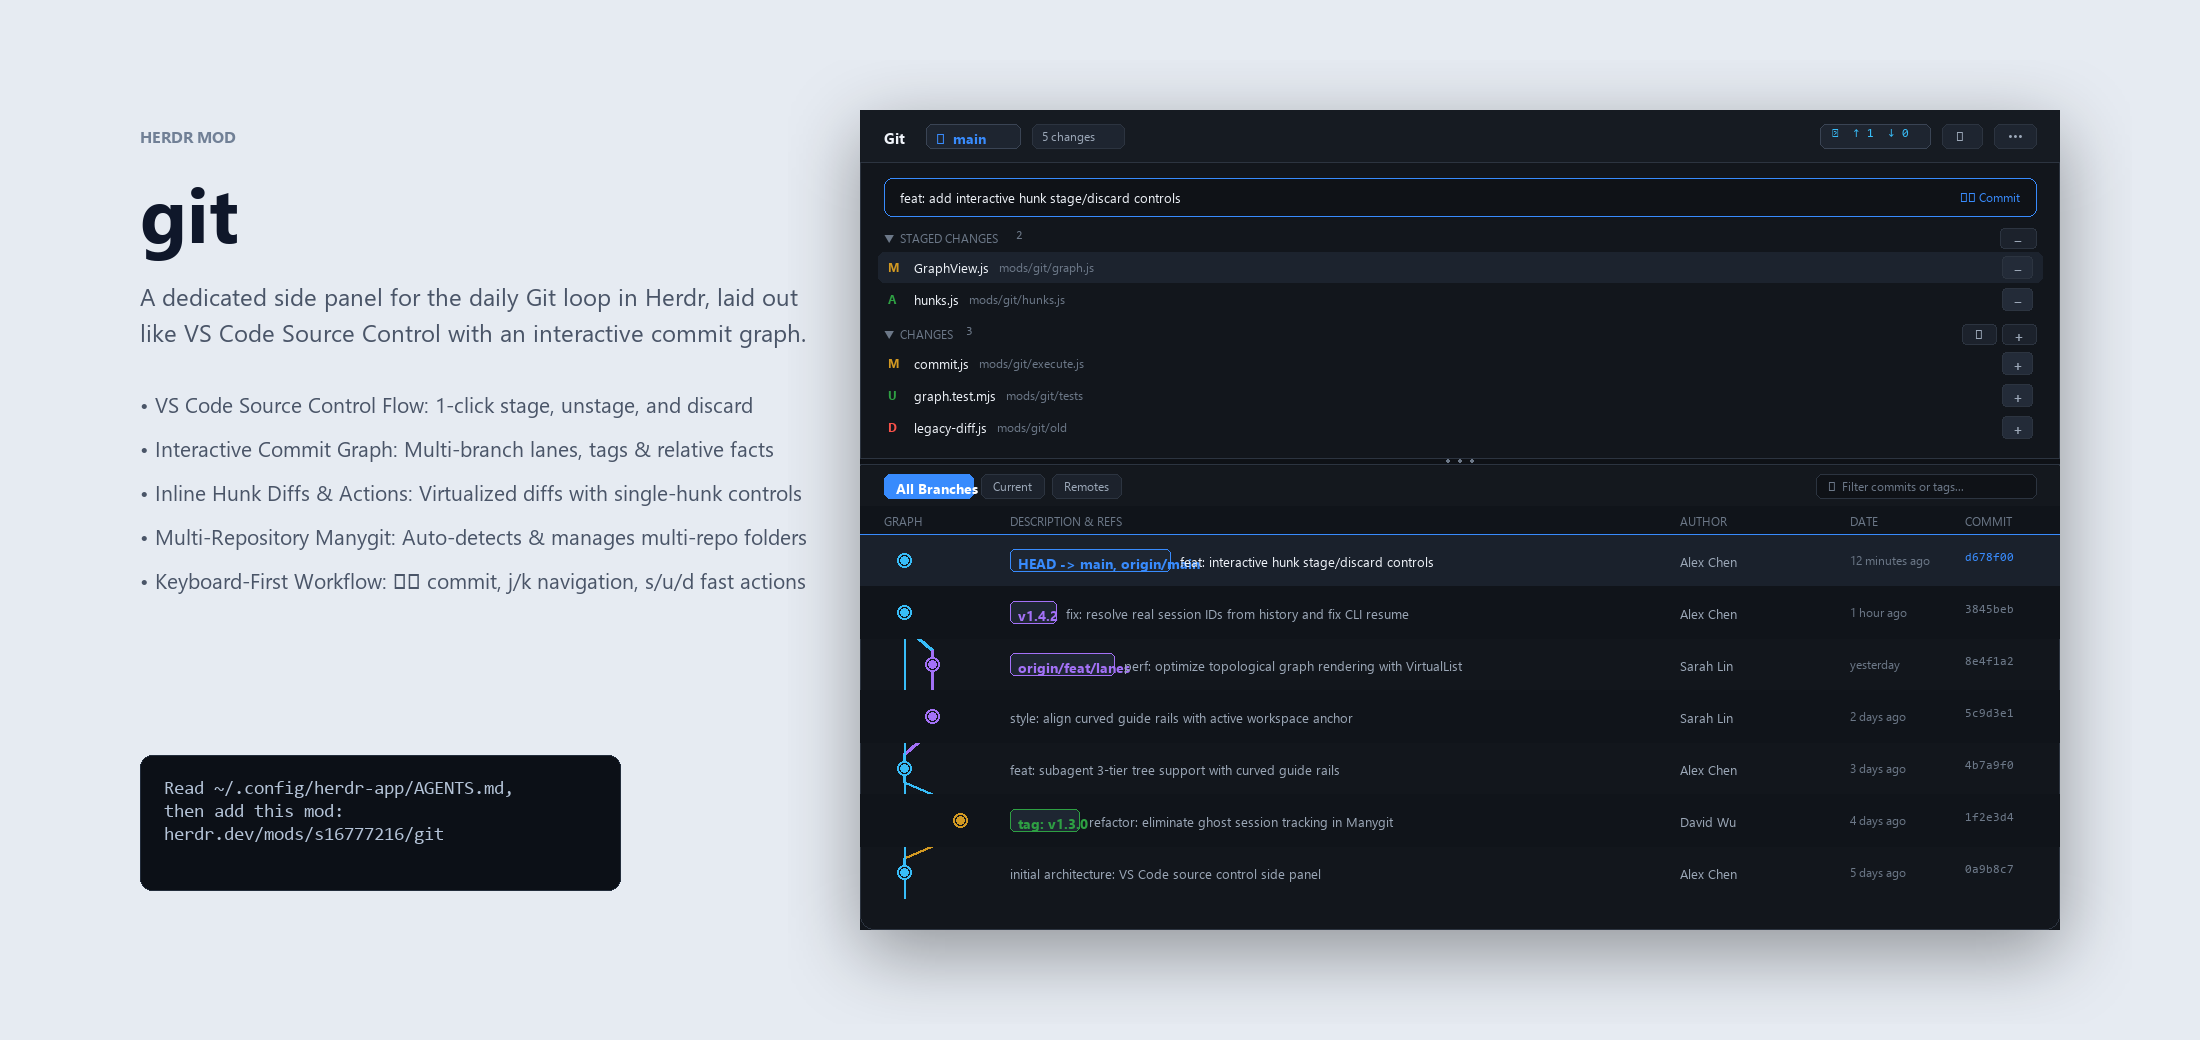
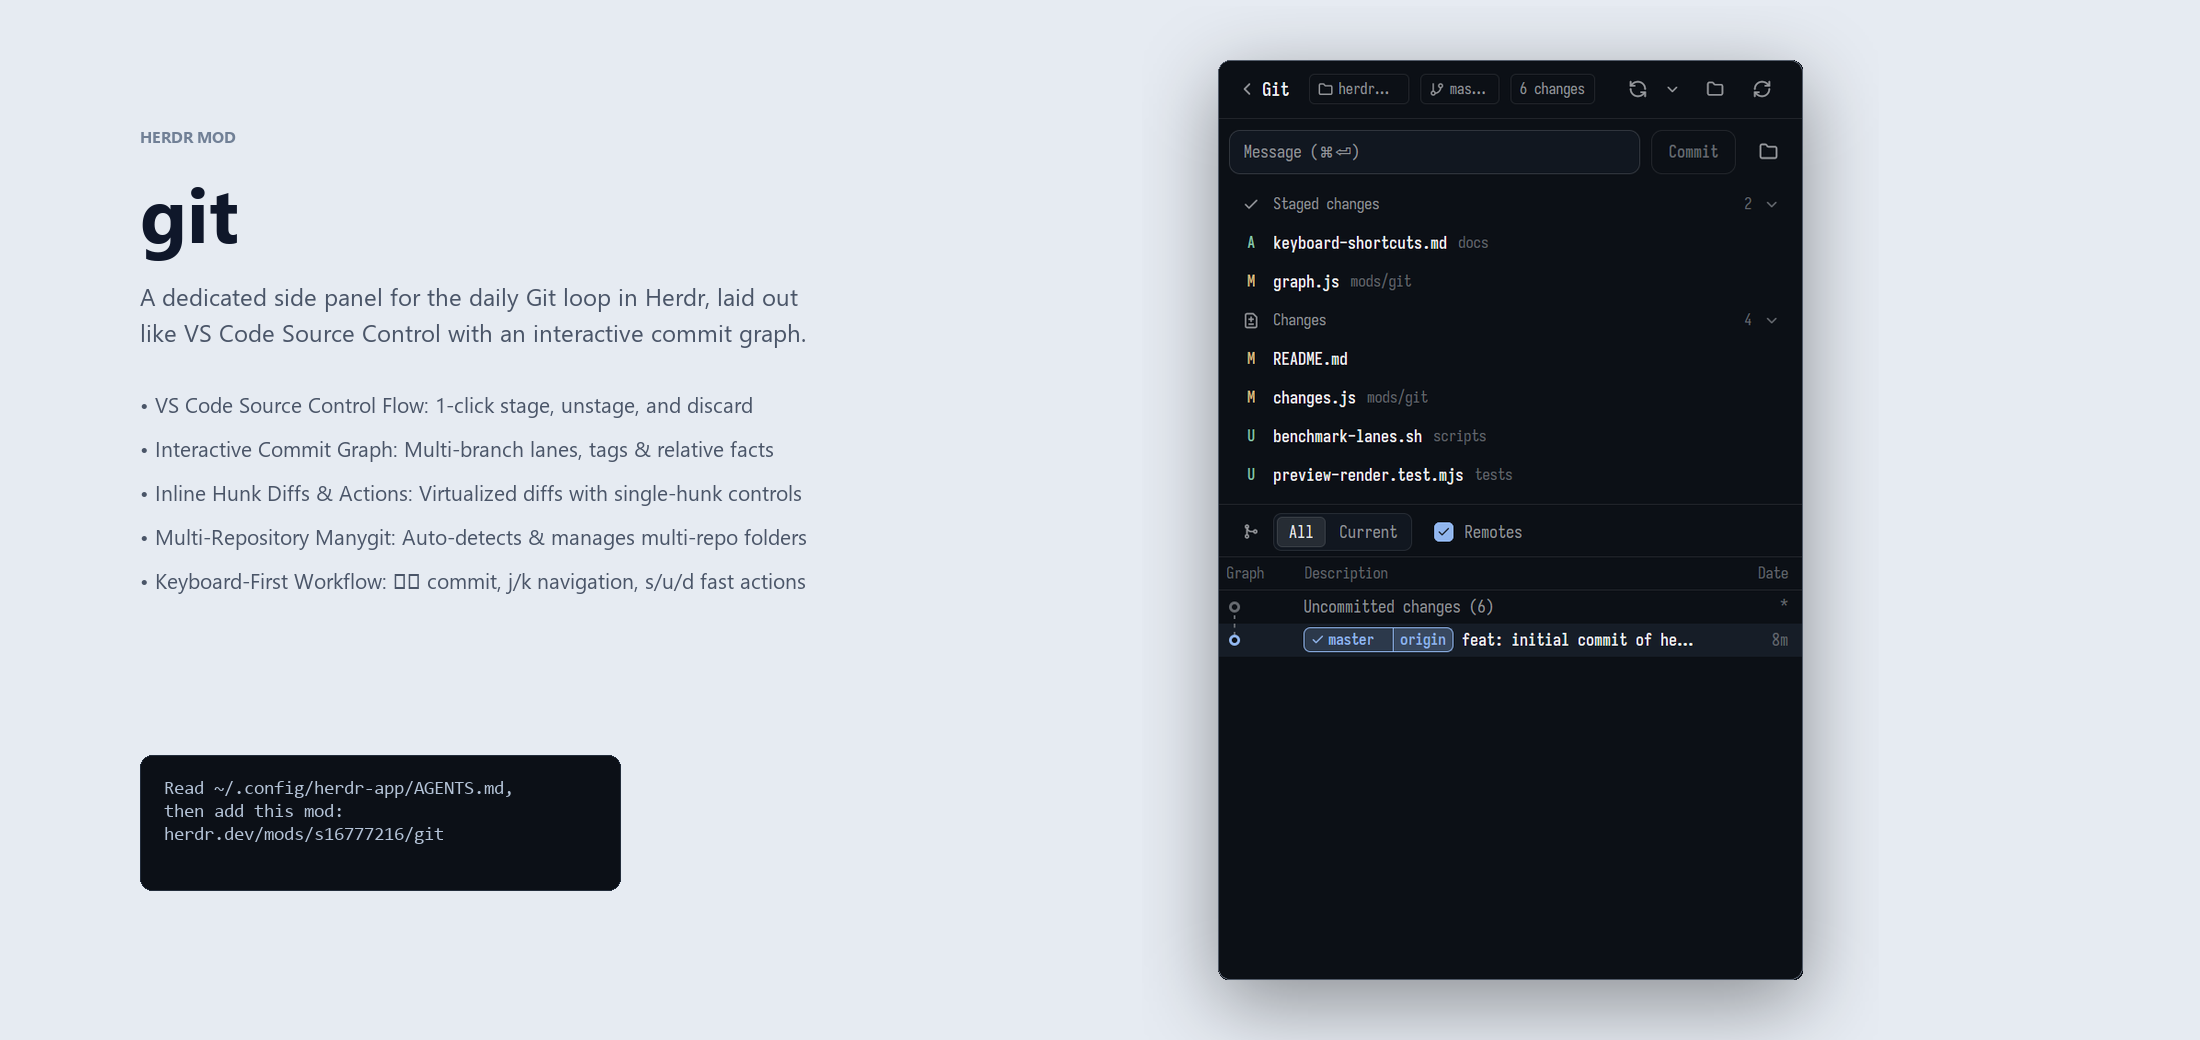
docs: update preview.png with clean Herdr Git panel screenshot and add docs

Changed region(s): [[0.3709, 0.0308, 0.9582, 1.0]]

diff --git a/mods/git/graph.js b/mods/git/graph.js
@@ -1,6 +1,7 @@
 // The graph itself: Git Graph's table (graph, description, date, author,
 // commit) for the focused pane's repository, or `props.folder` when opened as
 // a pane. Labels take double-clicks (checkout) and right-clicks (menus).
+// Optimized: virtualized branch lanes with topological rank projection.
 import { div, svg, PathBuilder } from "gpui-kit";
 import { v_flex, h_flex, Scrollbar, v_virtual_list, VirtualListScrollHandle } from "gpui-base";
 import { spaces, panes, focused, watchFolder, readTextFile, theme, settings, props, shared, setShared, openOverlay, home, notify, knownAgents, updates, nextCommand } from "herdr";

diff --git a/mods/git/changes.js b/mods/git/changes.js
@@ -2,6 +2,7 @@
 // Staged Changes / Changes groups, plus the header's sync button and its menu.
 // The data (groups, upstream counts, operation, stashes) is read by the Graph
 // that owns this; a row's click opens its diff in the Graph's bottom half.
+// Provides live Stage / Unstage / Discard reactive actions and fast commit dispatch.
 import { div, svg } from "gpui-kit";
 import { v_flex, h_flex, InputState, Input } from "gpui-base";
 import { notify, openOverlay, readTextFile } from "herdr";

diff --git a/README.md b/README.md
@@ -9,7 +9,7 @@ A side panel for the daily Git loop in [Herdr](https://herdr.dev), laid out like
 - **VS Code Source Control Flow**: Top half stages, unstages, and discards files (`M`, `A`, `U`, `D`, `!`), writes commit messages (`⌘⏎`), and syncs with remotes.
 - **Visual Commit Graph**: Bottom half renders branch lanes, commit tags, detached HEAD states, authors, relative timestamps, and commit details.
 - **Inline Hunk Diffs & Actions**: Clicking a changed file inspects its diff with single-hunk **Stage**, **Unstage**, and **Discard** pill buttons.
-- **Multi-Repository Auto-Detection (Manygit)**: Opening a folder holding several repositories automatically lists and manages them.
+- **Multi-Repository Auto-Detection (Manygit)**: Opening a folder holding several repositories automatically lists and manages them with fast status indicators.
 - **Comprehensive Stash & Sync**: 1-click fast-forward pull/push, diverged branch merge/rebase prompts, and stash list / apply / pop / drop.
 - **Keyboard-First Navigation**: Full arrow / `j k` / `Home End` movement, `s` to stage, `u` to unstage, `d` to discard, and `m` for contextual Git actions.
 

diff --git a/docs/keyboard-shortcuts.md b/docs/keyboard-shortcuts.md
@@ -1,0 +1,11 @@
+# Herdr Git Keyboard Shortcuts
+
+| Shortcut | Context | Action |
+|---|---|---|
+| `⌘⏎` / `Ctrl+Enter` | Commit Box | Commit staged changes (or all changes if none staged) |
+| `j` / `k` / `↑` / `↓` | Changes List | Move focus between file rows and section headers |
+| `s` | Changes Row | Stage file / hunk |
+| `u` | Staged Row | Unstage file / hunk |
+| `d` | Changes Row | Discard changes (prompts confirmation) |
+| `m` | Any | Open Git contextual action menu |
+| `Tab` | Panel | Switch focus between Changes list and Commit Graph |
